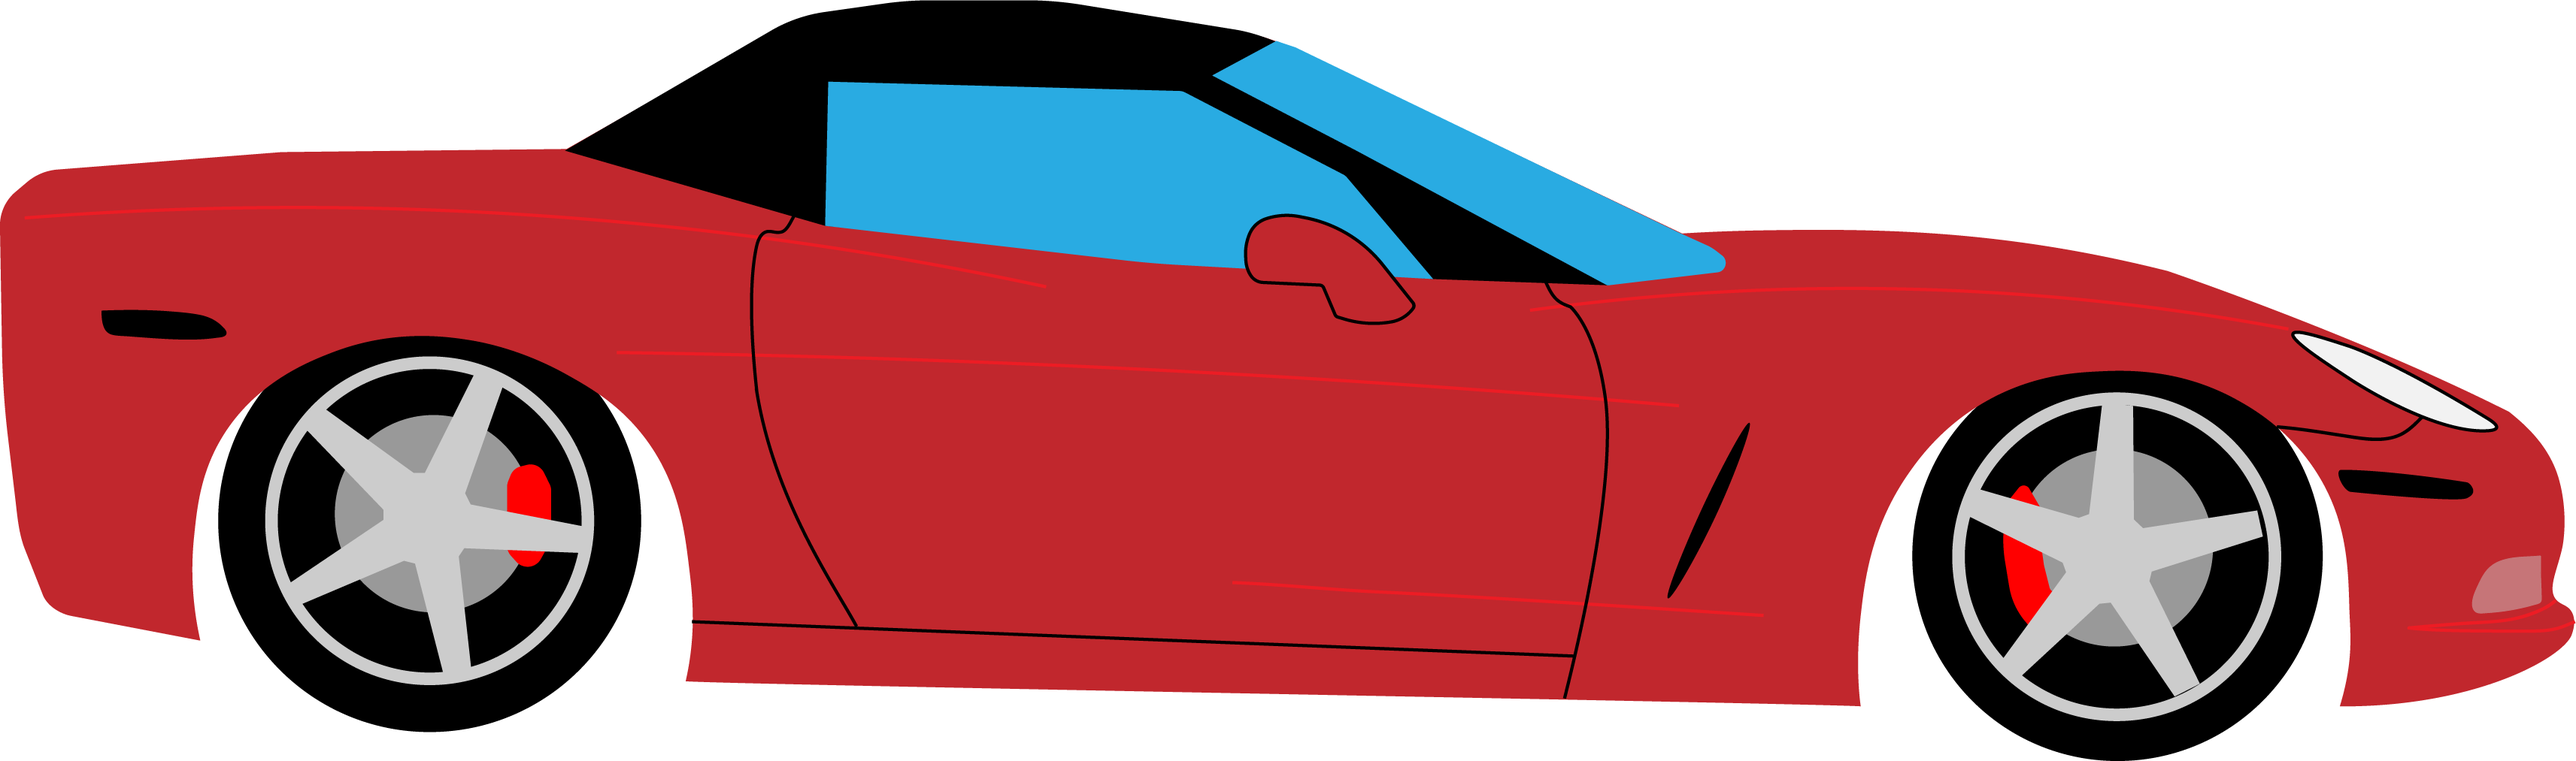
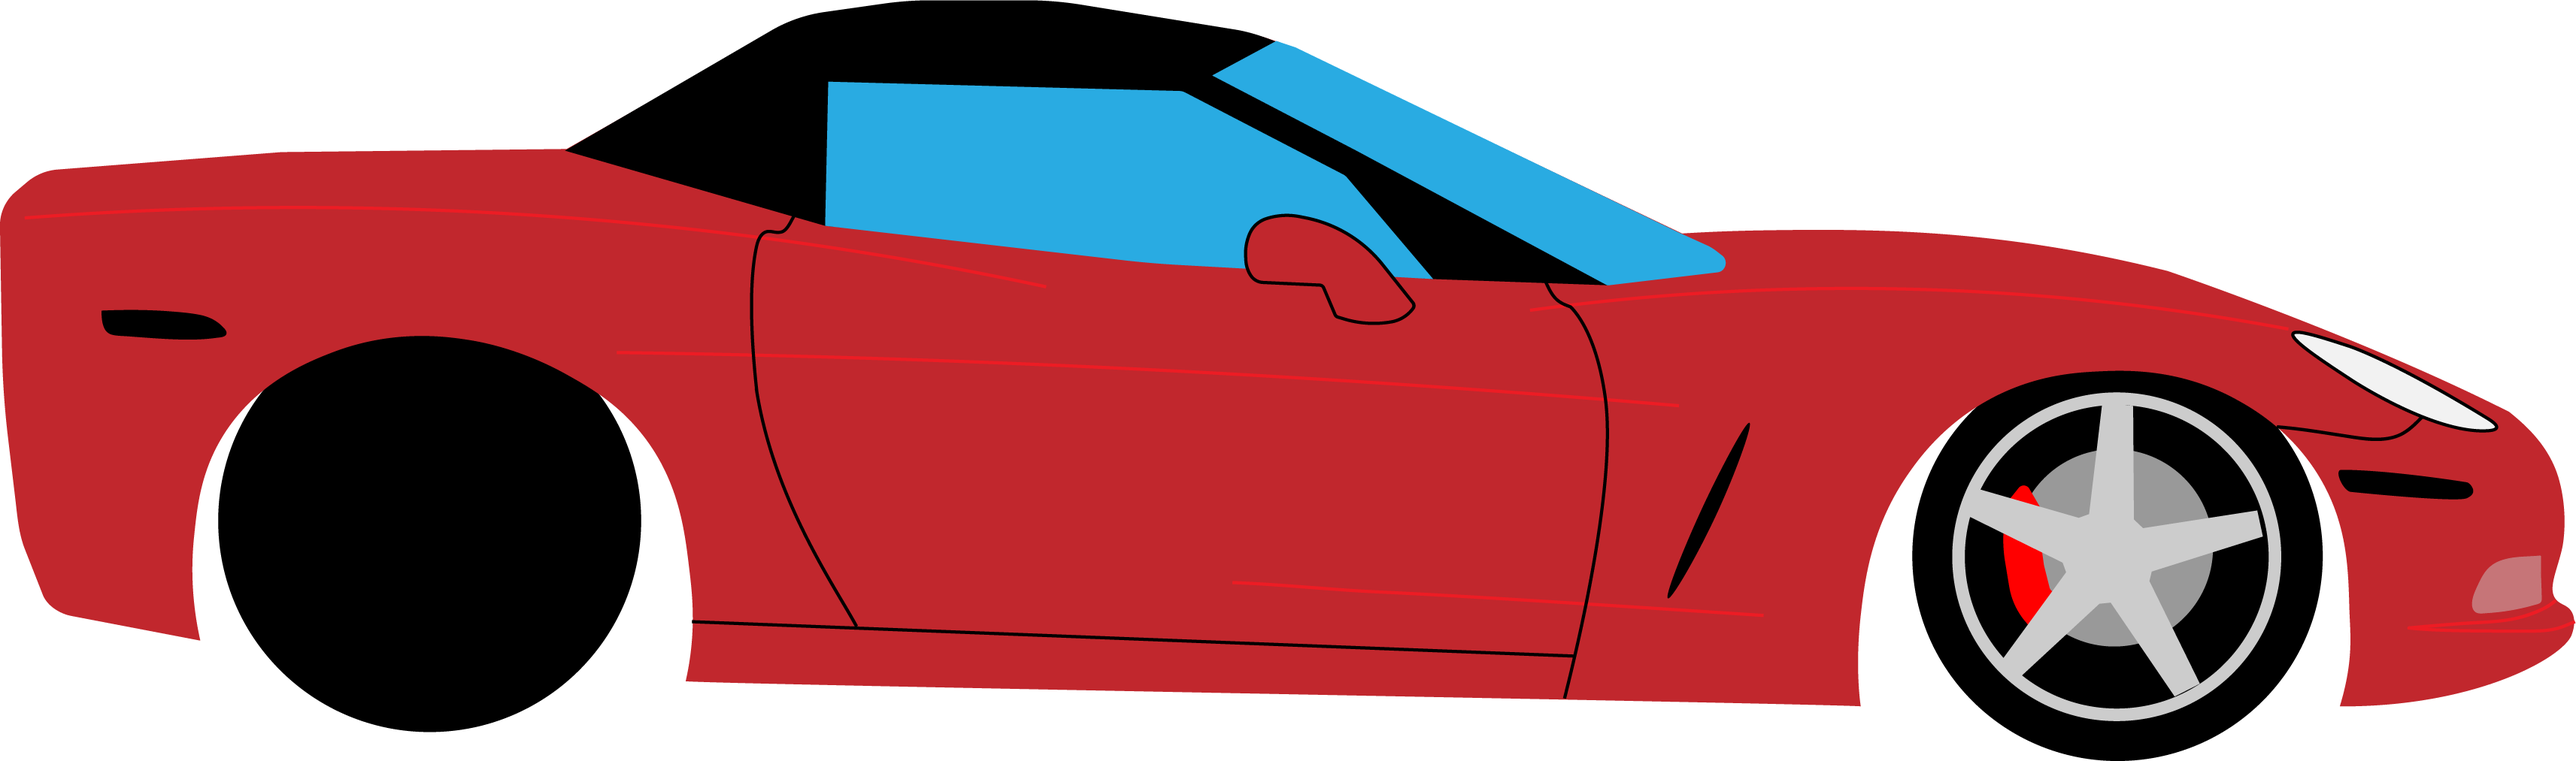
Implemented burnout feature

Changed region(s): [[0.0937, 0.459, 0.2499, 0.9181]]

diff --git a/js/main.js b/js/main.js
@@ -1,33 +1,181 @@
 const tree = document.getElementById("tree");
 const timer = document.getElementById("timer");
 const menu = document.getElementById("menu");
+const car = document.getElementById("car");
 const startButton = document.getElementById("startButton");
 const leaderboardButton = document.getElementById("leaderboardButton");
 const gameCanvas = document.getElementById("gameCanvas");
 const backgroundLayer = document.getElementById("backgroundLayer");
+const needle = document.getElementById('needle');
+const wheel = document.getElementById('wheel');
 
+let gameState = "MENU"; // Possible states: MENU, RACE, BURNOUT
 let gameStarted = false;
 let greenTime = 0;
 let reactionTime = null;
 let raceTime = 0;
 let jumped = false;
+let burnoutNeedleAngle = 0; // degrees
+let isThrottleHeld = false;
+let burnoutGreenZoneTop = 65; // tweak based on real graphics
+let burnoutGreenZoneBottom = 35;
+let burnoutGreenZoneTime = 0; // how much time in green
+let burnoutStartTime = 0; // when burnout started
+let burnoutSessionDuration = 10.0; // in seconds
+let burnoutBonusMultiplier = 1.0; // multiplier for burnout time
+let wheelSpeed = 0; // speed of the wheel rotation
+let burnoutActive = false;
 
-// Start the game (initial menu)
+// start the game (initial menu)
 function startGame() {
   resetGame();
-  backgroundLayer.style.display = "block;";
+  gameState = "MENU";
+
+  backgroundLayer.style.background = "url('../img/load-01.png') no-repeat center center";
+  backgroundLayer.style.display = "block";
+  backgroundLayer.style.backgroundSize = "120% 110%";
+  menu.style.display = "none";
   menu.style.paddingBottom = "0";
-  showMenu("ClickRacer", "Click play to begin!", "Play", startTreeSequence);
+  
+  console.log(menu);
+
+  showMenu("ClickRacer", "Click play to begin!", "Play", startBurnoutPhase);
 }
 
-// Start the tree sequence
+function startBurnoutPhase() {
+  gameState = "BURNOUT"; 
+  gameCanvas.style.background = "url('../img/burnout-pit.png') no-repeat center center";
+  gameCanvas.style.backgroundSize = "cover";
+  menu.style.display = "none";
+  menu.style.paddingBottom = "0";
+  needle.style.display = "block";
+  needle.style.transformOrigin = "center 100%";
+
+  car.src = "img/vettestill.png";
+  car.style.top = "30%";
+  car.style.width = "60%";
+
+  timer.style.fontSize = "4em";
+  timer.style.top = "5%";
+  timer.style.left = "80%";
+  timer.innerText = "BURNOUT!";
+
+  tree.src = "img/gauge.png";
+  tree.style.width = "30%";
+  tree.style.top = "65%";
+  tree.style.left = "-5.1%";
+
+  setTimeout(() => {
+  backgroundLayer.style.display = "none";
+  startBurnoutLogic();
+  }, 100);
+}
+
+function startBurnoutLogic() {
+  burnoutNeedleAngle = 0;
+  isThrottleHeld = false;
+  burnoutGreenZoneTime = 0;
+  burnoutActive = false; // wait for warmup
+  burnoutStartTime = 0;
+
+  setTimeout(() => {
+    burnoutActive = true;
+    burnoutStartTime = performance.now();
+  }, 1500);
+
+  requestAnimationFrame(updateBurnoutNeedle);
+}
+
+
+function updateBurnoutNeedle() {
+  if (gameState !== "BURNOUT") return;
+
+  const now = performance.now();
+  let elapsed = 0;
+
+  if (burnoutActive) {
+    elapsed = (now - burnoutStartTime) / 1000;
+    timer.innerText = `${(10 - elapsed).toFixed(2)}s`;
+  } else {
+    timer.style.left = "20%";
+    timer.innerText = "DO A BURNOUT!!!";
+  }
+
+  if (elapsed >= burnoutSessionDuration) {
+    endBurnoutPhase();
+    return;
+  }
+
+  // Move needle
+  if (isThrottleHeld) {
+    burnoutNeedleAngle += 2;
+  } else {
+    burnoutNeedleAngle -= 1.5;
+  }
+
+  burnoutNeedleAngle = Math.max(0, Math.min(100, burnoutNeedleAngle));
+  needle.style.transform = `translate(-50%, -50%) rotate(${mapNeedleAngleToDegrees(burnoutNeedleAngle)}deg)`;
+
+  // Animate wheel spin
+  if (burnoutNeedleAngle > 5) {
+    wheel.style.display = "block";
+    car.src = "img/vette.png";
+    wheelSpeed = Math.abs(burnoutNeedleAngle * 100);
+  } else {
+    wheel.style.display = "none";
+    car.src = "img/vettestill.png";
+    wheelSpeed = 0;
+  }
+  wheel.style.transform = `translate(-50%, -50%) rotate(${wheelSpeed}deg)`;
+  wheel.style.transition = "transform 0.1s linear";
+
+  // Only count green zone time if burnout is active
+  if (burnoutActive && burnoutNeedleAngle >= burnoutGreenZoneBottom && burnoutNeedleAngle <= burnoutGreenZoneTop) {
+    burnoutGreenZoneTime += 1 / 60;
+  }
+
+  burnoutBonusMultiplier = 1 - (burnoutGreenZoneTime / 100);
+
+  requestAnimationFrame(updateBurnoutNeedle);
+}
+
+
+function endBurnoutPhase() {
+  backgroundLayer.style.display = "block";
+  isThrottleHeld = false;
+  gameCanvas.style.background = "url('../img/strip-01.png') no-repeat center center";
+  gameCanvas.style.backgroundSize = "cover";
+
+  car.src = "img/vetterear.png";
+
+  needle.style.display = "none";
+
+  wheel.style.removeProperty("display");
+
+  timer.textContent = "--.--s";
+  tree.src = "img/tree-01.png";
+  tree.style.removeProperty("top");
+  tree.style.removeProperty("left");
+  tree.style.removeProperty("width"); 
+
+  car.style.removeProperty("top");
+  car.style.removeProperty("width");
+
+  timer.style.removeProperty("font-size");
+  timer.style.removeProperty("top");
+  timer.style.removeProperty("left");
+
+  showMenu( burnoutGreenZoneTime.toFixed(2) + "/10s", "Now you're ready to race!", "Race", startTreeSequence, "", "none" );
+}
+
+// this is what REALLY starts the race
 function startTreeSequence() {
+  menu.style.display = "none";
+  backgroundLayer.style.display = "none";
+  gameState = "RACE";
   raceTime = 0;
   jumped = false;
-  backgroundLayer.style.display = "none";
-  menu.style.display = "none";
   gameStarted = true;
-  timer.textContent = "--.--s";
   tree.src = "img/tree-01.png";
 
   setTimeout(() => {
@@ -45,11 +193,23 @@ function startTreeSequence() {
   }, 1000);
 }
 
-// Handle clicking during gameplay
 gameCanvas.addEventListener("mousedown", () => {
-  if (!gameStarted) return;
-  if (reactionTime !== null) return;
+  //console.log("Mouse down event triggered with gamestate = " + gameState);
+  if (gameState === "BURNOUT") {
+    isThrottleHeld = true;
+  } else if (gameState === "RACE") {
+    if (reactionTime !== null) return; // only launch once
+    handleRaceClick();
+  }
+});
 
+gameCanvas.addEventListener("mouseup", () => {
+  if (gameState === "BURNOUT") {
+    isThrottleHeld = false;
+  }
+});
+
+function handleRaceClick() {
   const now = performance.now();
 
   if (greenTime === 0) {
@@ -59,29 +219,31 @@ gameCanvas.addEventListener("mousedown", () => {
     reactionTime = (now - greenTime) / 1000;
     launchCarAndDisplayTime(reactionTime);
   }
-});
+}
 
-// Animate the car shrinking and driving away
+// car shrinks and drives away, score is displayed
 function launchCarAndDisplayTime(reactionTime) {
-  const car = document.getElementById("car");
-
-  // Reset any previous animation
   car.style.transition = "none";
   car.style.transform = "translateX(-50%) translateY(0px) scale(1)";
   
   void car.offsetWidth;
 
   raceTime = 10 + reactionTime;
-  car.style.transition = `transform ${raceTime}s cubic-bezier(0.01, 0.8, 0.6, 1)`;
-  car.style.transform = "translateX(-57%) translateY(-52%) scale(0.01)";
+  const finalTime = raceTime * burnoutBonusMultiplier;
 
+  //console.log("Final time: " + finalTime.toFixed(2) + "s with burnout bonus: " + burnoutBonusMultiplier.toFixed(2) + "x" + " (reaction time: " + reactionTime.toFixed(2) + "s)");
+  
+  car.style.transition = `transform ${raceTime}s cubic-bezier(0.01, 0.8, 0.1, 1)`;
+  car.style.transform = "translateX(-57%) translateY(-52%) scale(0.01)";
+  
   setTimeout(() => {
-    timer.textContent = `${raceTime.toFixed(2)}s`;
-    raceDone(raceTime);
+    timer.textContent = `${finalTime.toFixed(2)}s`;
+    setTimeout(() => {
+      raceDone(finalTime);
+    }, 1000);
   }, raceTime * 1000);
 }
 
-// Handle false start (jumped the light)
 function jumpedStart() {
   jumped = true;
   resetGame();
@@ -89,10 +251,10 @@ function jumpedStart() {
   showMenu("Not so fast!", "You have to wait for the light to turn green, hotshot!", "Restart", startGame, "", "none");
 }
 
-// Handle race finish
 function raceDone(raceTime) {
   resetGame();
 
+  backgroundLayer.style.display = "block";
   const extraHTML = `
     <input id="usernameInput" type="text" placeholder="Username" style="margin: 10px 0 10px 5px; padding: 8px; font-size: 1em; border-radius: 5px; ">
     <button id="saveScoreButton" style="margin: 10px; padding: 8px 12px;">Save Time</button><br/>`;
@@ -107,7 +269,7 @@ function raceDone(raceTime) {
 
   menu.style.paddingBottom = "50px";
 
-  setTimeout(() => { // slight delay to ensure elements exist
+  setTimeout(() => { // slight delay to ensure elements exist *****DO NOT REMOVE******
     document.getElementById("saveScoreButton").addEventListener("click", saveScore);
   }, 50);
 }
@@ -145,19 +307,12 @@ async function submitScore(userid, score) {
   }
 }
 
-async function fetchLeaderboard() {
-  try {
-    const response = await fetch('https://d5tedw0pz6.execute-api.us-east-2.amazonaws.com/leaderboard');
-    const leaderboard = await response.json();
-    console.log('Fetched leaderboard:', leaderboard);
-    return leaderboard;
-  } catch (error) {
-    console.error('Failed to fetch leaderboard:', error);
-    return [];
-  }
+function mapNeedleAngleToDegrees(value) {
+  const minDeg = -90;
+  const maxDeg = 90;
+  return minDeg + (maxDeg - minDeg) * (value / 100);
 }
 
-// Helper function to show the dynamic menu
 function showMenu(title, message, buttonText, buttonAction, extraHTML = "", leaderboardDisplay = "") {
   menu.style.display = "block";
   menu.innerHTML = `
@@ -172,6 +327,7 @@ function showMenu(title, message, buttonText, buttonAction, extraHTML = "", lead
 }
 
 function resetGame() {
+  gameState = "MENU";
   gameStarted = false;
   greenTime = 0;
   reactionTime = null;
@@ -182,5 +338,4 @@ function resetGame() {
   car.style.transform = "translateX(-50%) translateY(0px) scale(1)";
 }
 
-// Start the game once page fully loads
 window.addEventListener("load", startGame);

diff --git a/css/style.css b/css/style.css
@@ -118,6 +118,14 @@ th{
   width: 40%;
 }
 
+#wheel {
+  bottom: 25%;
+  left: 30%;
+  transform: translateX(-50%);
+  width: 13%;
+  display: none;
+}
+
 #tree {
   top: 10%;
   left: 5%;
@@ -179,6 +187,21 @@ th{
 #username-input:focus {
   outline: none !important;
   border: 2px solid #111;
+}
+
+#needle{
+  top: 73%;
+  left: 16.7%;
+  height: 12%;
+  display: none;
+}
+
+img, .overlay, .gameComponent, #gameCanvas, #backgroundLayer, #menu {
+  user-select: none;
+  -webkit-user-drag: none; /* Prevents dragging images */
+  -webkit-user-select: none; /* Chrome/Safari fix */
+  -moz-user-select: none; /* Firefox fix */
+  -ms-user-select: none; /* IE fix */
 }
 
 /* About Styles */

diff --git a/index.html b/index.html
@@ -21,8 +21,10 @@
 
   <div class="game-container" id="gameCanvas">
     <img id="car" class="overlay gameComponent" src="img/vetterear.png">
+    <img id="wheel" class="overlay gameComponent" src="img/wheel.png">
     <img id="tree" class="overlay gameComponent" src="img/tree-01.png">
     <div id="timer" class="overlay gameComponent">--.--s</div>
+    <img id="needle" class="overlay gameComponent" src="img/needle.png">
     <div id="backgroundLayer"></div>
     <div id="menu" class="overlay">
       <button id="startButton">Play</button>
